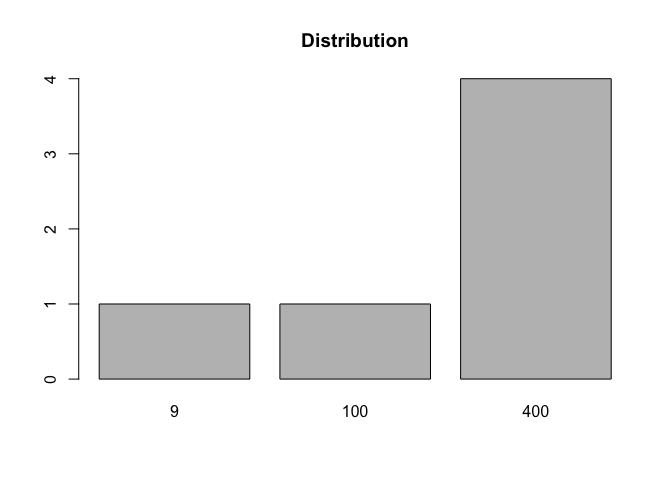
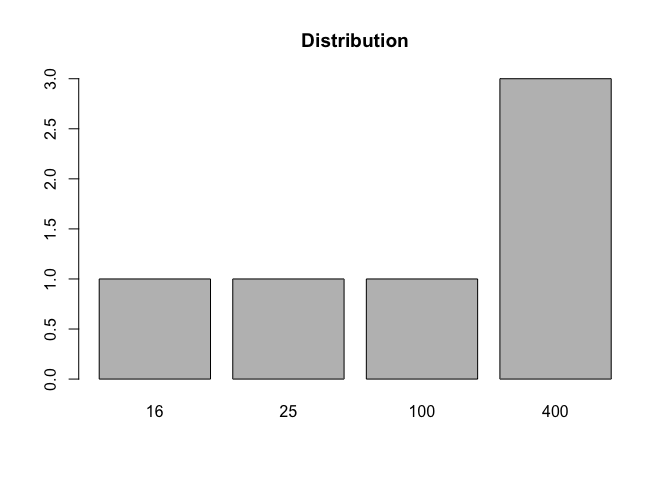
Update documentation

diff --git a/README.md b/README.md
@@ -1,11 +1,12 @@
 
 <!-- README.md is generated from README.Rmd. Please edit that file -->
 
-# Fnpol
+# Fnpol Package
 
 <!-- badges: start -->
 
-[![documentation](https://img.shields.io/badge/documentation-Fnpol-green.svg)](https://github.com/vincehass/Advanced-Computational-Statistics-and-Functional-Programming/tree/master/1-Fnpol)
+[![documentation](https://img.shields.io/badge/documentation-fnpol-green.svg)](https://github.com/vincehass/Advanced-Computational-Statistics-and-Functional-Programming/tree/master/1-Fnpol)
+[![contributions](https://img.shields.io/badge/contributions-welcome-red.svg)](https://github.com/vincehass/Advanced-Computational-Statistics-and-Functional-Programming/tree/master/1-Fnpol)
 <!-- badges: end -->
 
 The goal of fnpol is to provide functionalities for fast computation for
@@ -51,10 +52,10 @@ where \(i\) is the imaginary part and the complex serie
 ``` r
 vec_com<-sample(complex(real=sample(1:20,16), imaginary = sample(1:20,16)),16)
 vec_com
-#>  [1] 11+ 2i  3+15i 19+18i  9+20i 17+ 4i  5+ 1i  7+17i  4+13i 10+ 9i 15+11i
-#> [11] 18+ 8i  2+12i  8+ 3i 14+ 6i 13+10i 16+16i
+#>  [1] 15+12i 10+11i 16+ 9i 17+ 7i  5+16i 13+ 2i 19+17i 12+ 6i  2+10i 14+18i
+#> [11] 18+ 5i  4+ 4i  9+ 8i 11+15i  6+ 3i  3+20i
 dft1_naive(vec_com,k=3)
-#> [1] 15.49031
+#> [1] -13.68954
 ```
 
 ### Iterative Form for Fast Fourier Transform
@@ -62,7 +63,7 @@ dft1_naive(vec_com,k=3)
 ``` r
 
 dft1_iter(vec_com,k=3)
-#> [1] 15.49031
+#> [1] -13.68954
 ```
 
 ### Matrix Form for Fast Fourier Transform
@@ -70,8 +71,8 @@ dft1_iter(vec_com,k=3)
 ``` r
 
 dft1_matrix(vec_com,k=3)
-#>          [,1]
-#> [1,] 15.49031
+#>           [,1]
+#> [1,] -13.68954
 ```
 
 ### Comparaison of all methods for Fast Fourier Transform
@@ -107,12 +108,12 @@ implement the algorithm below.
 
 ``` r
 fft_ct2(vec_com)
-#>  [1] 171.000000+165.000000i  28.247820+ 12.131057i  16.213203+  5.384776i
-#>  [4]  -7.935175+ 15.490306i -39.000000- 41.000000i  -0.412661+  9.082538i
-#>  [7]   6.899495+ 16.757359i -10.039681+  0.175907i  35.000000- 23.000000i
-#> [10]   9.693306- 32.817349i -26.213203- 31.384776i  22.077311-  8.661878i
-#> [13]  17.000000- 29.000000i -29.528465- 52.396246i -12.899495+ 25.242641i
-#> [16]  -4.102455+  0.995666i
+#>  [1] 174.000000+163.000000i  -1.954743- 12.030761i  -9.363961+  3.849242i
+#>  [4]  -2.377672- 13.689541i -19.000000-  0.000000i  18.441603+ 34.073385i
+#>  [7]  11.121320- 16.334524i -27.808755- 29.654595i   6.000000-  3.000000i
+#> [10]  48.197384-  5.667724i   3.363961- 25.849242i  59.046719+  8.275328i
+#> [13] -37.000000+ 24.000000i  19.315756+  7.625100i   6.878680+ 30.334524i
+#> [16]  -8.860293+ 27.068809i
 ```
 
 ## Comparaison tool Fast Fourier Transform
@@ -151,12 +152,12 @@ simulator_sum<-function(v1,v2,trans=identity){
 lapply(list(length(c(v1,v2))),realization_sum(v1,v2, trans))};
 simulator_sum(c(1,2,3),c(2,3,4), identity);
 #> [[1]]
-#> [1] 7 3 3 3 7 3
+#> [1] 5 7 5 5 7 5
 f2<-function(x) x**2;
 sim_sum<-simulator_sum(c(1,2,3),c(2,3,4), f2);
 sim_sum
 #> [[1]]
-#> [1] 25 25  9 25 49 49
+#> [1] 25 25 25 25  9  9
 ```
 
 ### Proportion of the simulated random variable
@@ -168,12 +169,12 @@ sim_tran<-simulator_tran(xs)
 sim_tran2<-simulator_tran(xs,f2);
 simulator_prop(sim_tran);
 #> 
-#>  6 10 20 
-#>  2  2  2
+#>  5  6 10 20 
+#>  1  1  3  1
 simulator_prop(sim_tran2)
 #> 
 #>  25 100 400 
-#>   1   1   4
+#>   2   3   1
 ```
 
 ### Histogram of realized random variables
@@ -185,8 +186,8 @@ sim_tran<-simulator_tran(xs)
 sim_tran2<-simulator_tran(xs,f2);
 simulator_prop(sim_tran);
 #> 
-#>  4  6 20 
-#>  2  2  2
+#>  5  6 10 20 
+#>  1  2  1  2
 simulator_bar(sim_tran);
 ```
 
@@ -210,37 +211,37 @@ lowerb = -1e10,
 upperb = 1e10,
 nb_iters = 1e5L)
 tracking_operator(w,k=10)
-#> The result of  3  has been obtained by this set of numbers  6 2 6 6 5  and the following operation
+#> The result of  0.6666667  has been obtained by this set of numbers  6 2 6 7 6  and the following operation
 #> [[1]]
-#> function (e1, e2)  .Primitive("+")
+#> function (e1, e2)  .Primitive("^")
 #> 
 #> [[2]]
-#> function (e1, e2)  .Primitive("+")
+#> function (e1, e2)  .Primitive("/")
 #> 
 #> [[3]]
-#> function (e1, e2)  .Primitive("/")
+#> function (e1, e2)  .Primitive("^")
 #> 
 #> [[4]]
 #> function (e1, e2)  .Primitive("*")
 #> 
 #> [[5]]
-#> function (e1, e2)  .Primitive("/")
+#> function (e1, e2)  .Primitive("-")
 tracking_operator(w,k=100)
-#> The result of  49  has been obtained by this set of numbers  7 2 2 6 6  and the following operation
+#> The result of  -4  has been obtained by this set of numbers  2 7 6 6 5  and the following operation
 #> [[1]]
-#> function (e1, e2)  .Primitive("+")
+#> function (e1, e2)  .Primitive("^")
 #> 
 #> [[2]]
-#> function (e1, e2)  .Primitive("+")
+#> function (e1, e2)  .Primitive("/")
 #> 
 #> [[3]]
-#> function (e1, e2)  .Primitive("/")
+#> function (e1, e2)  .Primitive("^")
 #> 
 #> [[4]]
 #> function (e1, e2)  .Primitive("*")
 #> 
 #> [[5]]
-#> function (e1, e2)  .Primitive("/")
+#> function (e1, e2)  .Primitive("-")
 ```
 
 ## Algebric description of Polynomials
